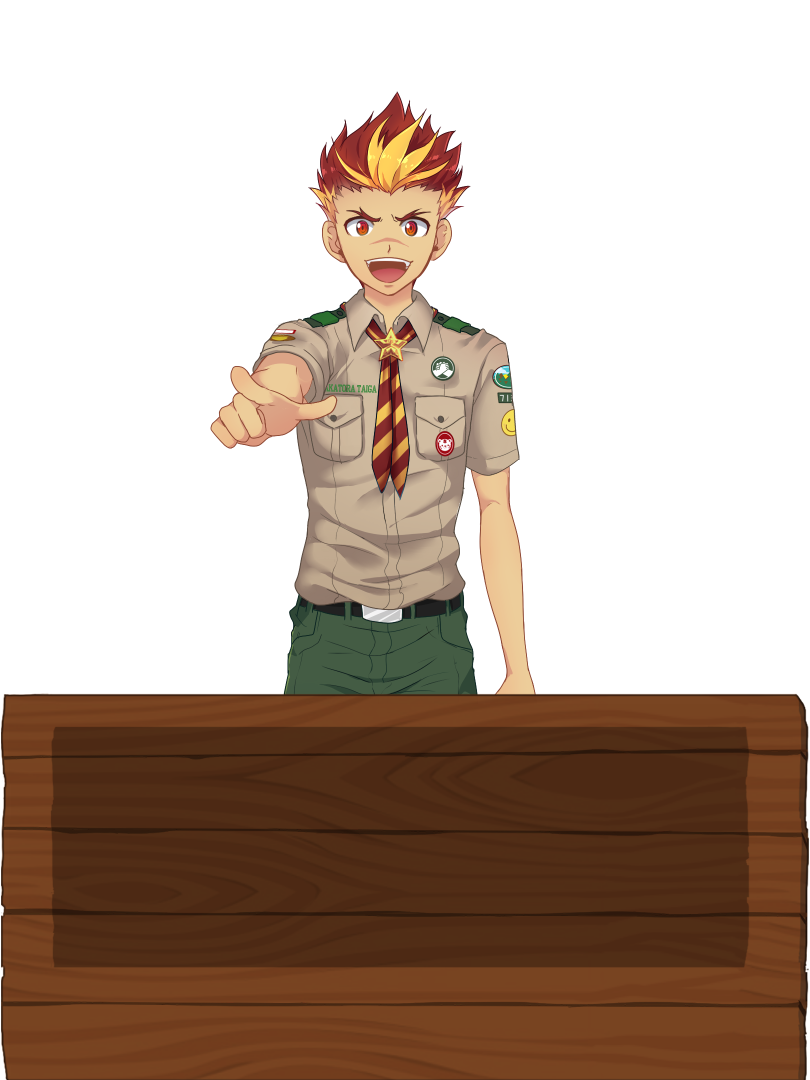
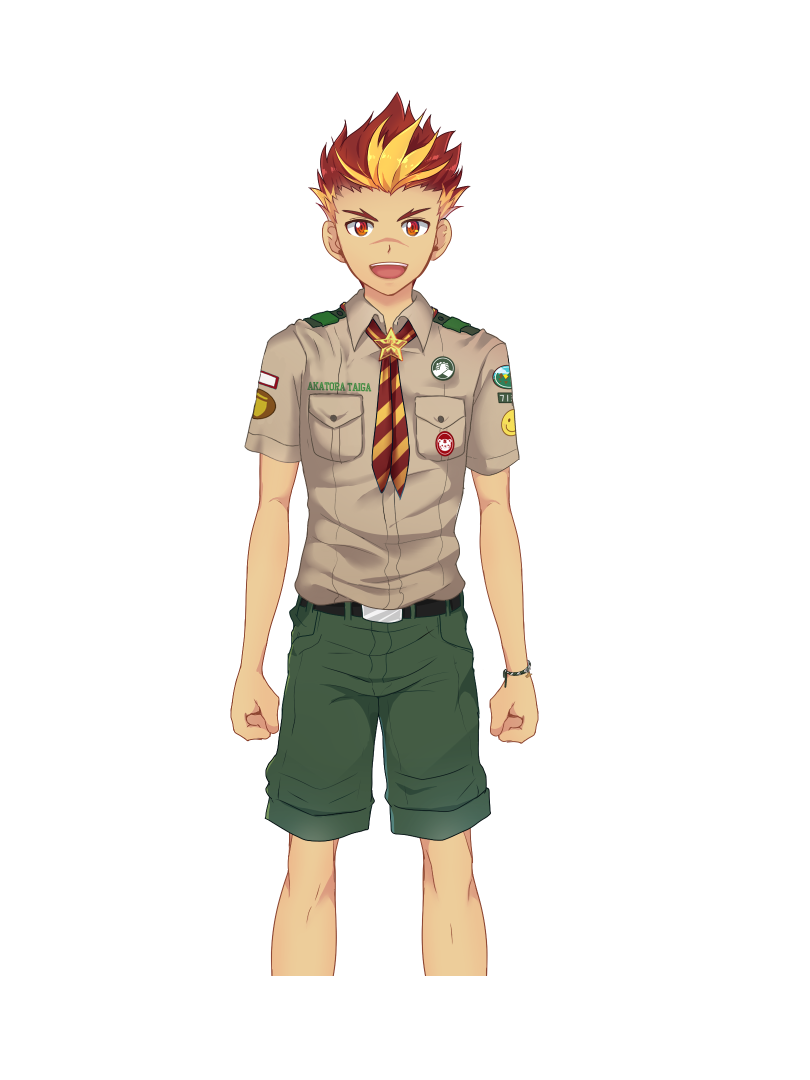
Fix/dialog (#18)
* Replace Taiga's sprite with taiga3

* Make the default background 'camp'

* hint at backgrounds if not supplied

* Remove a space

diff --git a/cogs/info.py b/cogs/info.py
@@ -102,9 +102,11 @@ class Info(commands.Cog):
         character = splitted.pop(0).lower()
 
         await ctx.trigger_typing()
+        bg_def = ""
 
         if character in self.dialog.characters:
-            background = random.choice(self.dialog.backgrounds)
+            bg_def = "\nNo background supplied, defaulting to Camp. Use `dialog [background] <character> <message>` to set a background!"
+            background = "camp"
         else:
             background = character
             character = splitted.pop(0).lower()
@@ -127,7 +129,7 @@ class Info(commands.Cog):
 
         file = discord.File(filename="res.png", fp=output)
 
-        await ctx.send(f"{ctx.author.mention}, Here you go!", file=file)
+        await ctx.send(f"{ctx.author.mention}, Here you go! {bg_def}", file=file)
 
     @commands.command(description="Shows information about Yuuto", help="Shows information about yuuto",
                       aliases=["info", "bot", "credits"])
